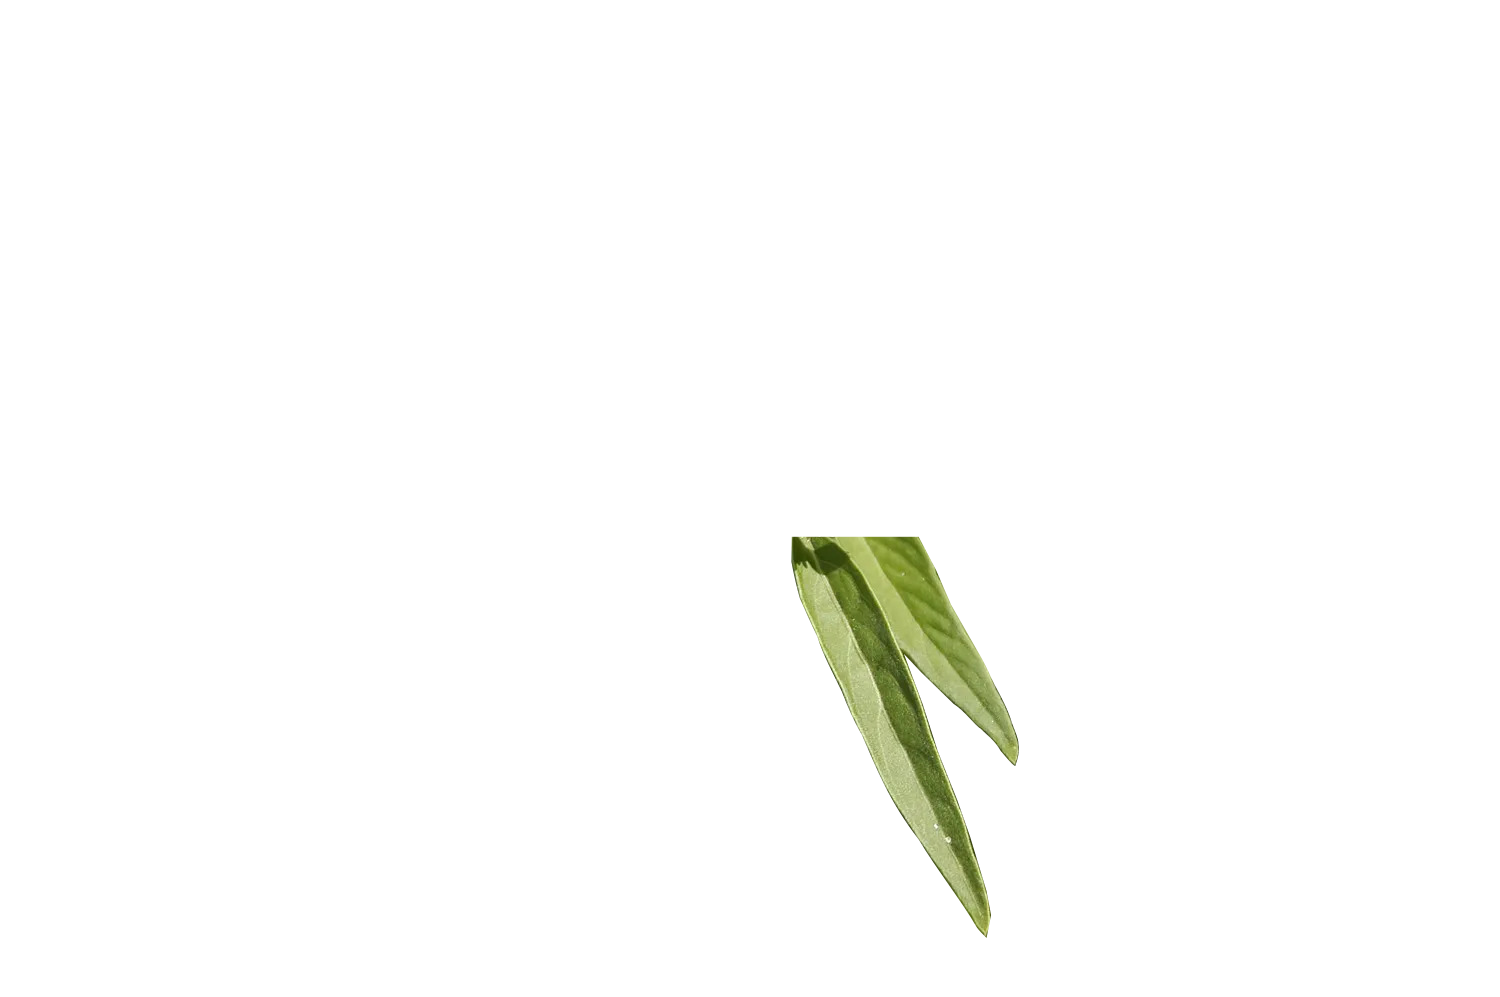
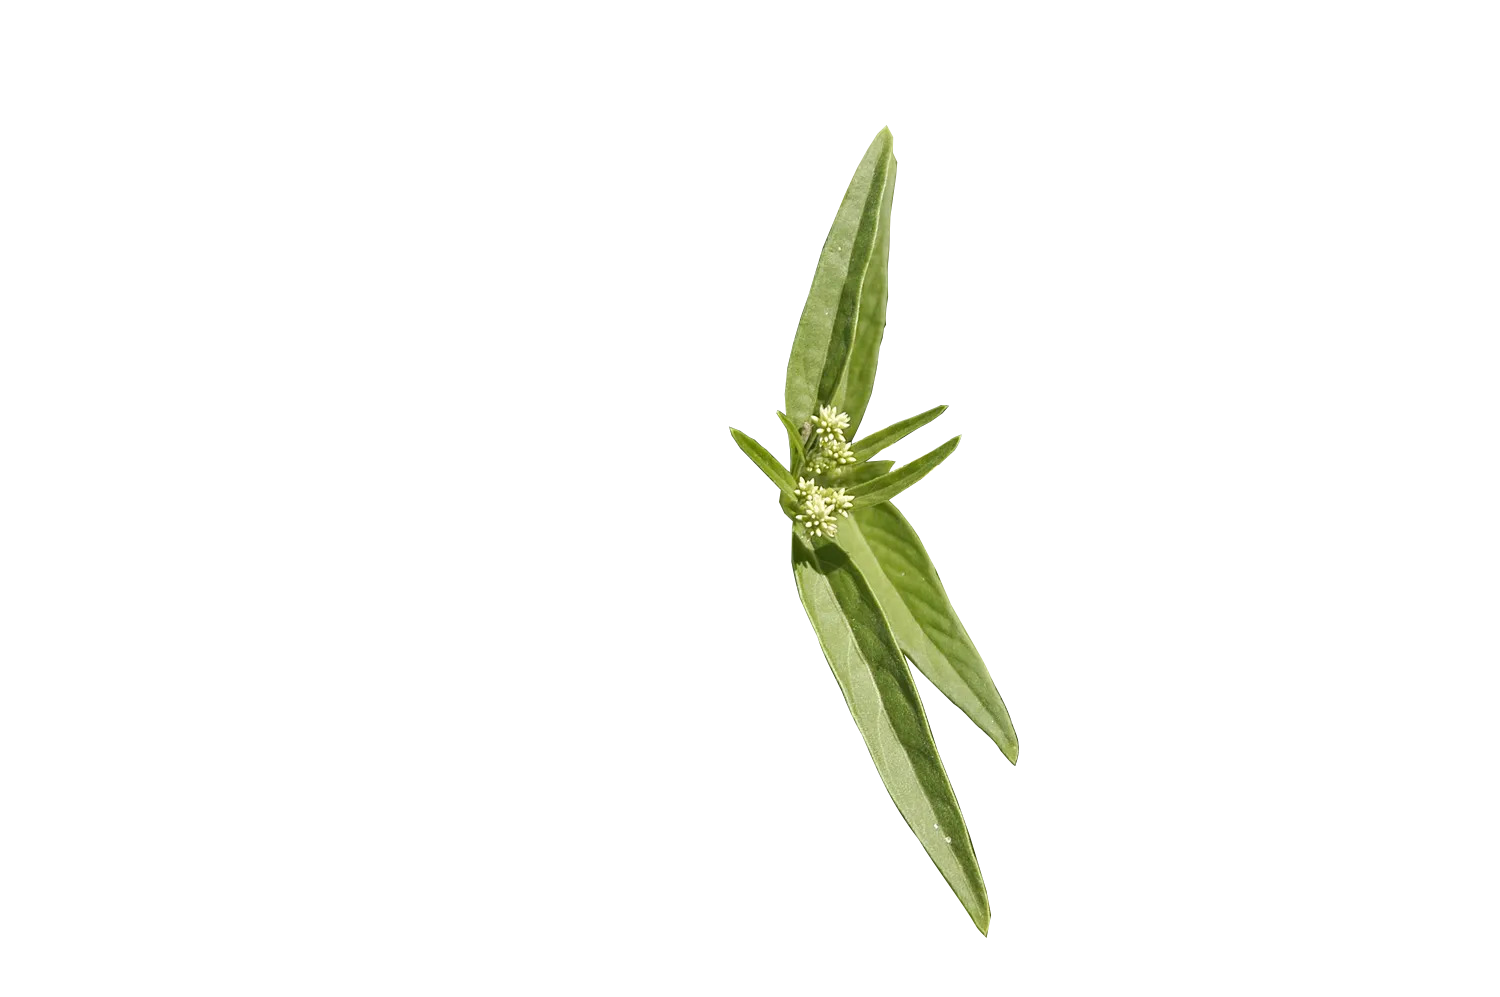
use images for marosa leafs

Changed region(s): [[0.4907, 0.1244, 0.644, 0.5597]]

diff --git a/static/css/custom.css b/static/css/custom.css
@@ -69,26 +69,38 @@ figure img {
 }
 
 .home-intro-1 {
-  background-image: url('/img/misson-statement-box.jpg');
+  /* background-image: url('/img/misson-statement-box.jpg');
   background-size: cover;
-  background-position: 50% 50%;
+  background-position: 50% 50%; */
   min-height: 11em;
   padding-top: 8em;
   position: relative;
 }
 
-.misson-statement-box-2 {
-  background-image: url('/img/marosa-leafs.png');
+.misson-statement-image {
+  z-index: -2;
+}
+
+.misson-statement-image, .misson-statement-image-overlay {
+  /* background-image: url('/img/marosa-leafs.png');
   background-size: cover;
-  background-position: 50% 50%;
-  top: 0em; 
-  height: calc(100%);
-  z-index: 10;
+  background-position: 50% 50%; */
+  object-fit: cover;
+  bottom: -2em;
+  left: 0em;
+  right:0em;
+  min-width: 100%;
+  min-height: 100%;
   position: absolute;
-  width: 100%;
   text-align: center;
   margin-left: auto;
   margin-right: auto;
+  border-radius: 0em;
+  pointer-events: none;
+}
+
+.misson-statement-image-overlay {
+  z-index: 0;
 }
 
 .misson-statement-box {

diff --git a/layouts/partials/intro.html b/layouts/partials/intro.html
@@ -1,10 +1,10 @@
 
 <section>
     <div class="home-intro-1">
-        <div class="misson-statement-box-2">
-        </div>
+        <img class="misson-statement-image" src="/img/marosa-leafs.jpg" />
         <div class="misson-statement-box">
         </div>
+        <img class="misson-statement-image-overlay" src="/img/marosa-leafs.png" />
     </div>
     <div class="home-intro-2 intro-section">
         <div class="misson-statement-box">
